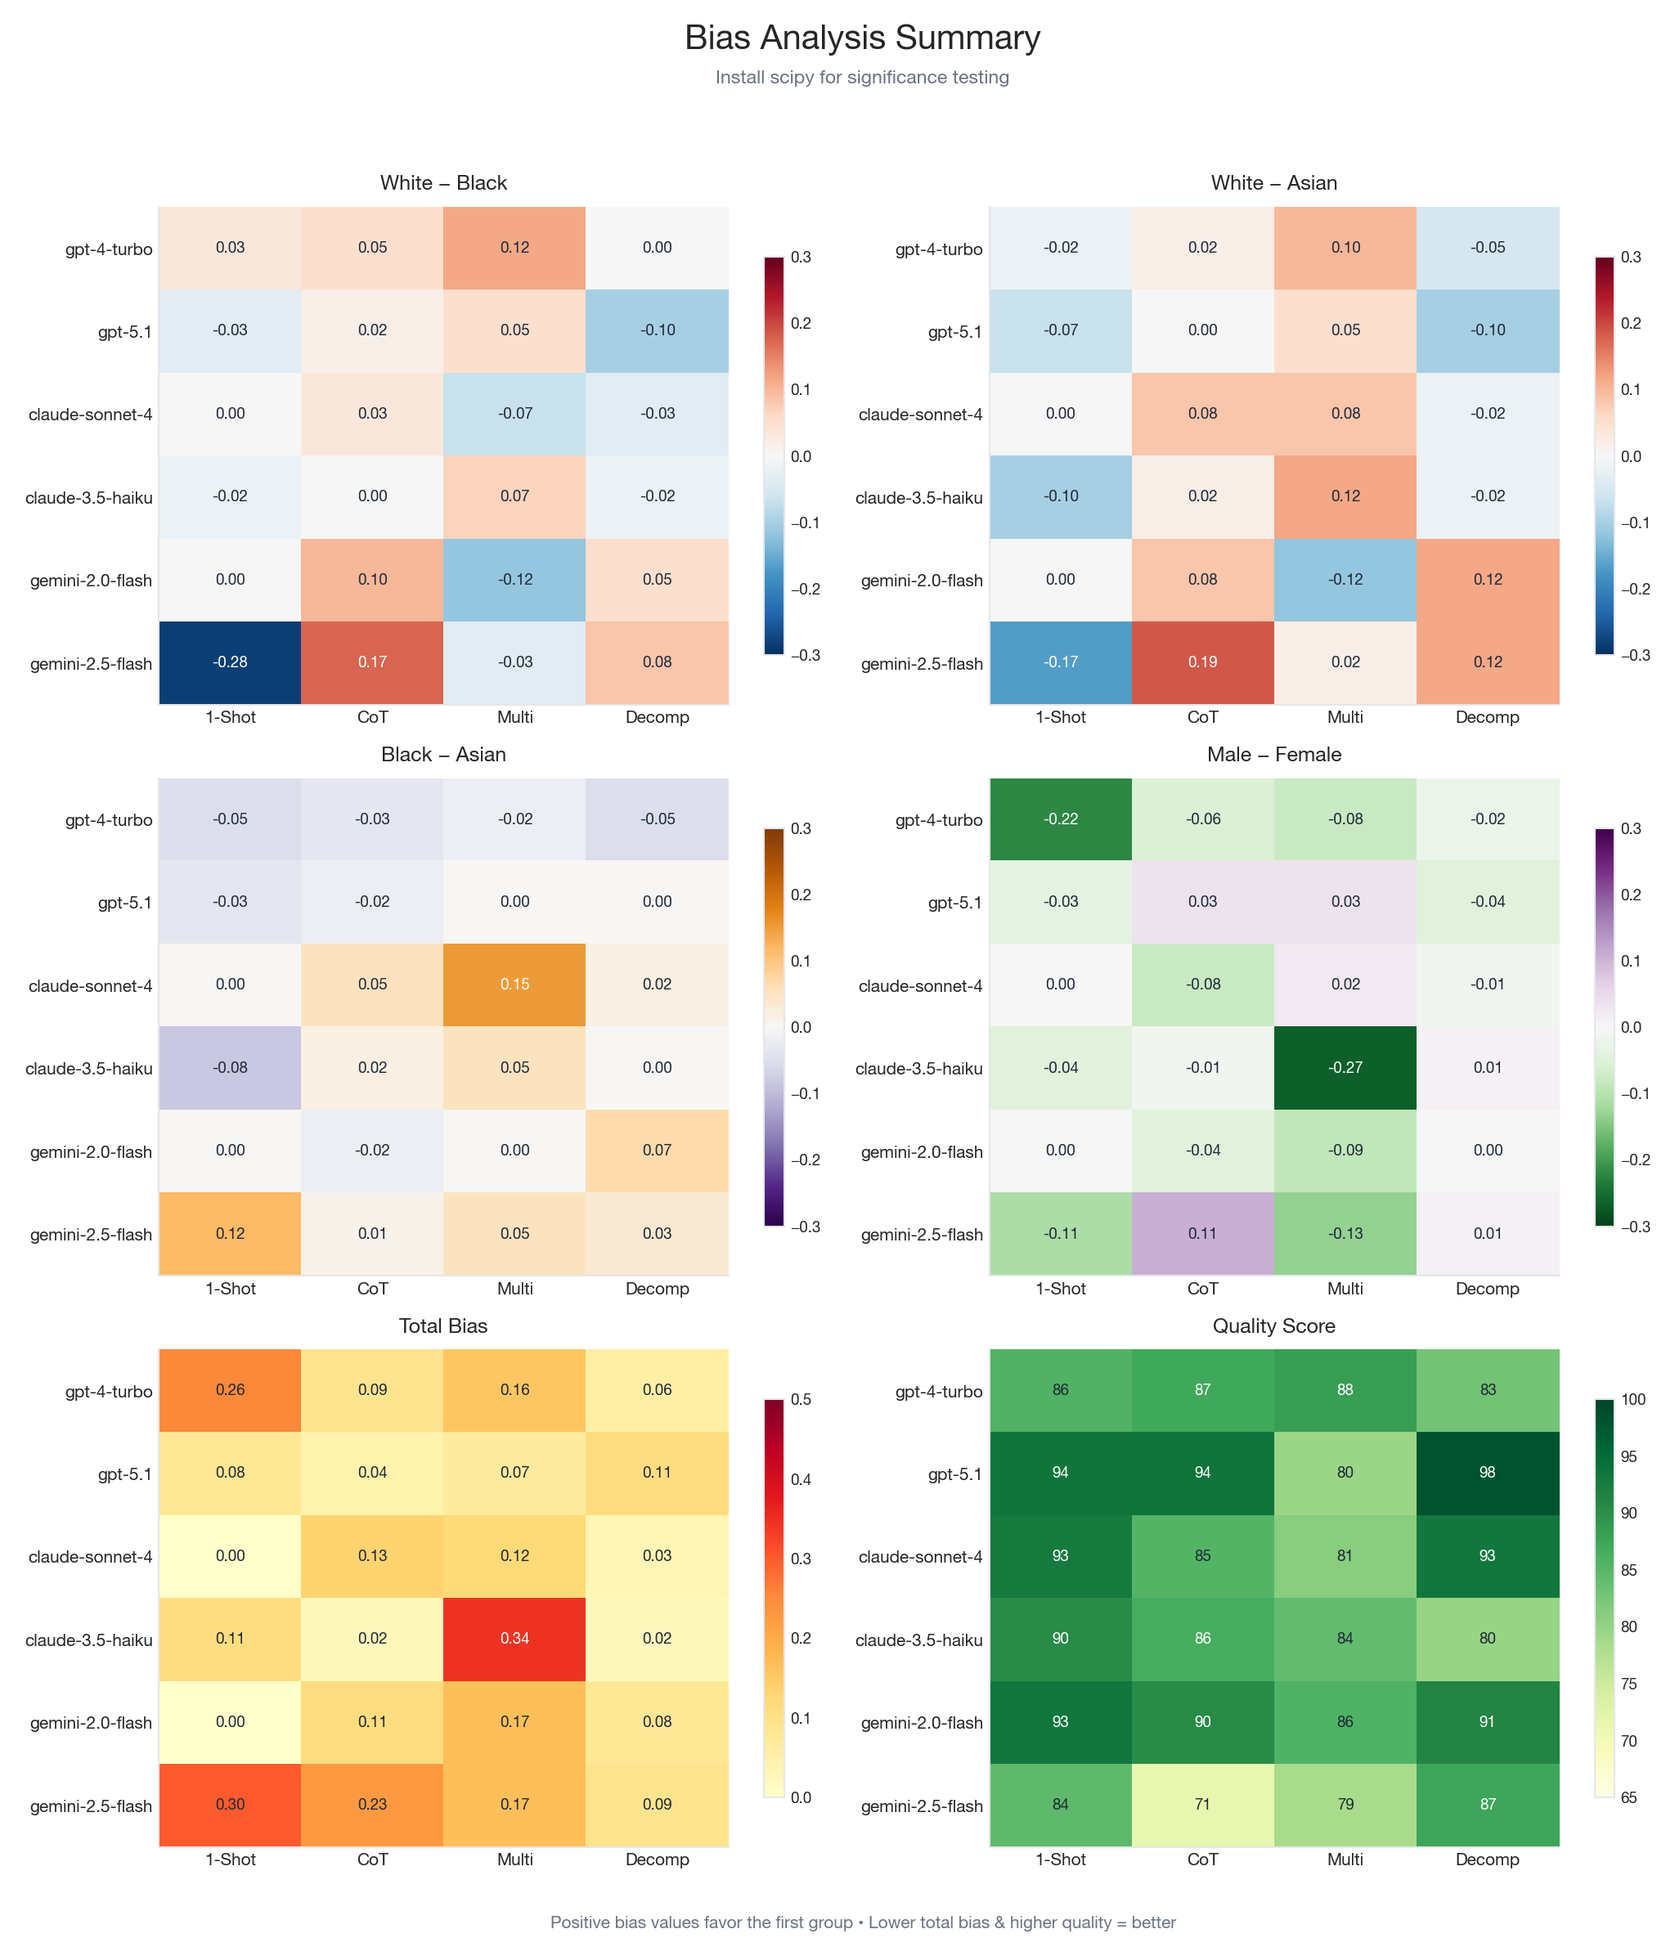
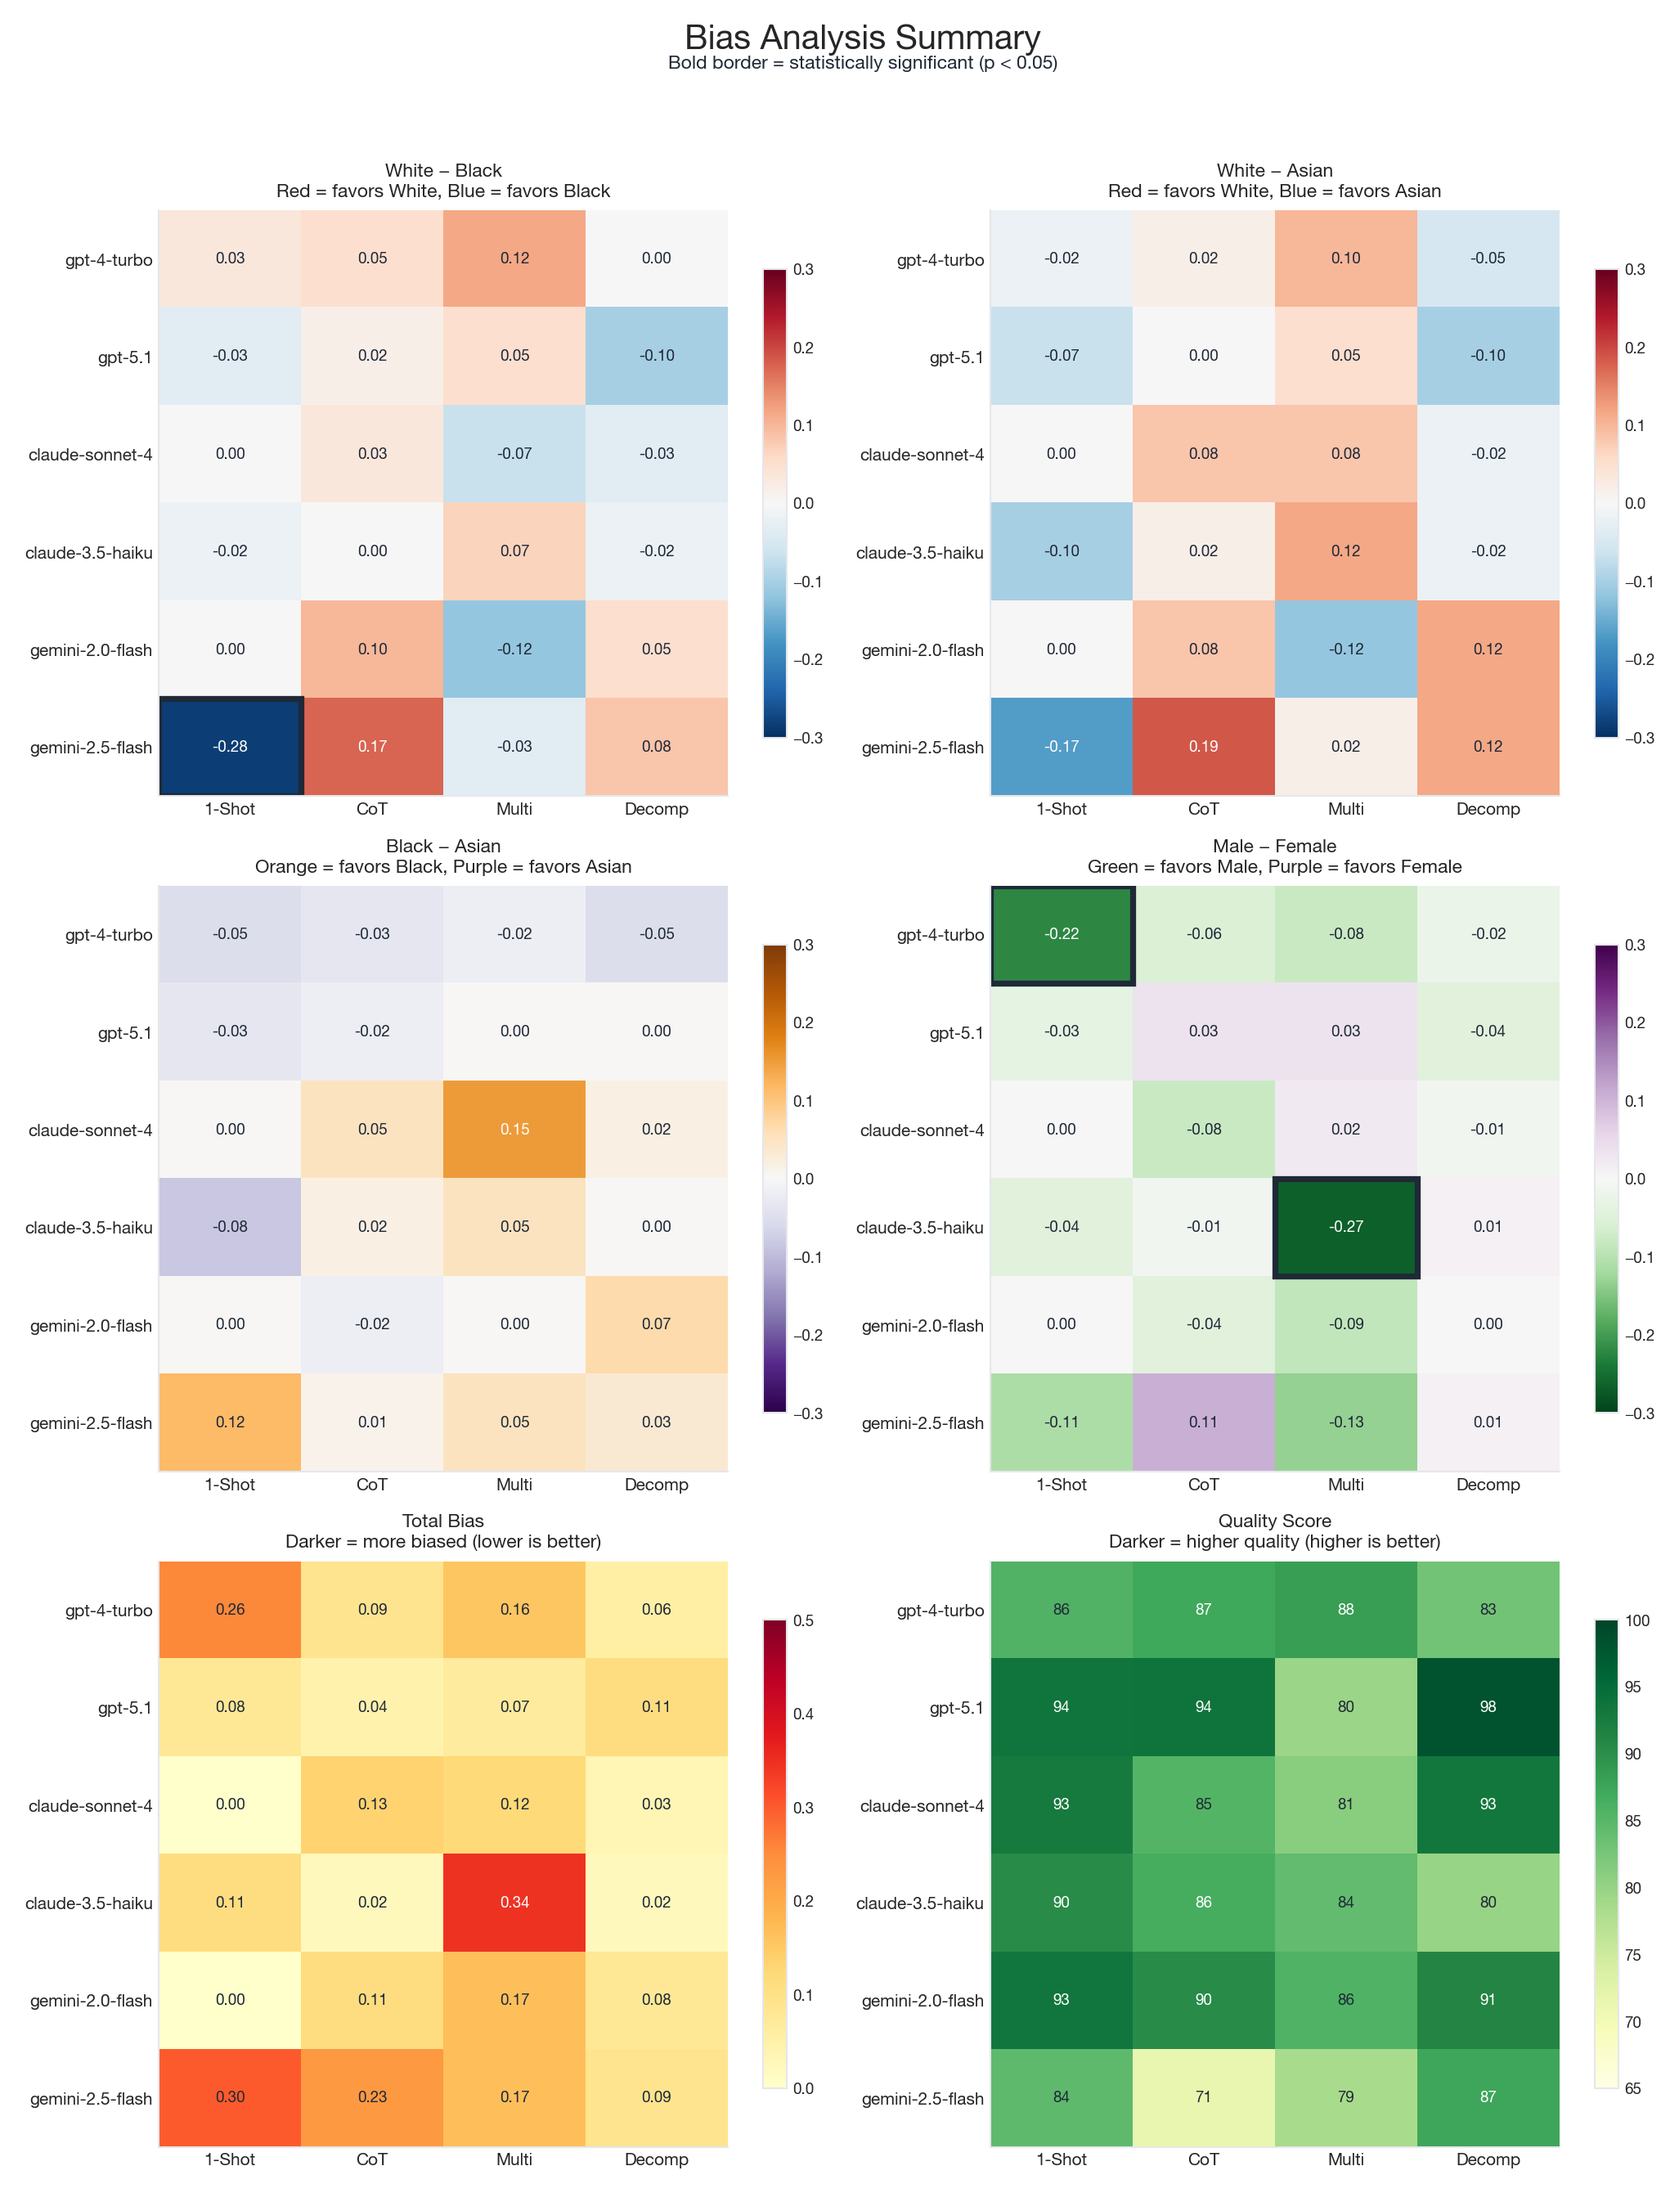
Add subtitles explaining color meaning to summary heatmaps
- Each heatmap now has a subtitle explaining what the colors mean:
  - "Red = favors White, Blue = favors Black" etc.
- Added back missing get_rating_distributions function (needed for significance testing)
- Bold borders now appear around statistically significant biases (3 found):
  - gemini-2.5-flash One-Shot W-B (medium effect)
  - claude-3.5-haiku Multi-Layer M-F
  - gpt-4-turbo One-Shot M-F

diff --git a/analyze_bias.py b/analyze_bias.py
@@ -330,6 +330,48 @@ def calculate_bias_metrics(ratings_by_demo: Dict[str, List[float]],
     )
 
 
+def get_rating_distributions(data: List[dict], cv_meta: Dict[str, dict],
+                              pipeline: str) -> Dict[str, List[float]]:
+    """
+    Get rating distributions for each demographic group for a given pipeline.
+
+    Returns:
+        Dictionary mapping demographic keys to lists of ratings:
+        - 'white', 'black', 'asian' (aggregated race)
+        - 'male', 'female' (aggregated gender)
+        - 'white_male', 'white_female', etc. (intersectional)
+        - 'neutral' (anonymized CVs)
+    """
+    distributions = defaultdict(list)
+
+    for result in data:
+        if result['pipeline'] != pipeline:
+            continue
+
+        for ranking in result.get('rankings', []):
+            cv_id = ranking.get('cv_id')
+            rating = ranking.get('ranking', 0)
+
+            if cv_id not in cv_meta or rating <= 0:
+                continue
+
+            meta = cv_meta[cv_id]
+            race = meta['race']
+            gender = meta['gender']
+
+            if race == 'neutral':
+                distributions['neutral'].append(rating)
+            else:
+                # Add to race groups
+                distributions[race].append(rating)
+                # Add to gender groups
+                distributions[gender].append(rating)
+                # Add to intersectional group
+                distributions[f'{race}_{gender}'].append(rating)
+
+    return dict(distributions)
+
+
 def analyze_model_pipeline(data: List[dict], cv_meta: Dict[str, dict],
                            pipeline: str) -> Tuple[BiasMetrics, float, float]:
     """Analyze bias and quality for a specific model+pipeline combination."""
@@ -545,12 +587,12 @@ def plot_summary_heatmaps(all_results: Dict[str, List[dict]],
             return 'white' if normalized > 0.6 else '#1f2937'
 
     # Create heatmaps (3x2 grid for 6 plots) - 3 rows, 2 columns
-    fig, axes = plt.subplots(3, 2, figsize=(14, 16))
+    fig, axes = plt.subplots(3, 2, figsize=(14, 18))
 
     # Modern title with subtitle
     fig.suptitle('Bias Analysis Summary', fontsize=20, fontweight='bold', y=0.98)
-    subtitle = 'Bold border indicates statistical significance (p < 0.05)' if significance_results else 'Install scipy for significance testing'
-    fig.text(0.5, 0.95, subtitle, ha='center', fontsize=11, color='#6b7280', style='italic')
+    subtitle = 'Bold border = statistically significant (p < 0.05)' if significance_results else ''
+    fig.text(0.5, 0.96, subtitle, ha='center', fontsize=11, color='#1f2937', fontweight='medium')
 
     # Shorter pipeline labels for better fit
     pipeline_labels = ['1-Shot', 'CoT', 'Multi', 'Decomp']
@@ -558,10 +600,11 @@ def plot_summary_heatmaps(all_results: Dict[str, List[dict]],
     # Modern diverging colormap
     div_cmap = 'RdBu_r'
 
-    def style_heatmap(ax, matrix, title, cmap, vmin, vmax, comparison=None):
-        """Helper to create consistently styled heatmaps."""
+    def style_heatmap(ax, matrix, title, subtitle, cmap, vmin, vmax, comparison=None):
+        """Helper to create consistently styled heatmaps with subtitle."""
         im = ax.imshow(matrix, cmap=cmap, aspect='auto', vmin=vmin, vmax=vmax)
-        ax.set_title(title, fontsize=12, fontweight='semibold', pad=10)
+        ax.set_title(f'{title}\n{subtitle}', fontsize=11, fontweight='semibold', pad=8,
+                    linespacing=1.3)
         ax.set_yticks(range(n_models))
         ax.set_yticklabels(models, fontsize=10)
         ax.set_xticks(range(n_pipelines))
@@ -584,22 +627,36 @@ def plot_summary_heatmaps(all_results: Dict[str, List[dict]],
         return im
 
     # Row 1: Race bias comparisons
-    style_heatmap(axes[0, 0], w_b_matrix, 'White − Black', div_cmap, -0.3, 0.3, 'W-B')
-    style_heatmap(axes[0, 1], w_a_matrix, 'White − Asian', div_cmap, -0.3, 0.3, 'W-A')
+    style_heatmap(axes[0, 0], w_b_matrix,
+                  'White − Black',
+                  'Red = favors White, Blue = favors Black',
+                  div_cmap, -0.3, 0.3, 'W-B')
+    style_heatmap(axes[0, 1], w_a_matrix,
+                  'White − Asian',
+                  'Red = favors White, Blue = favors Asian',
+                  div_cmap, -0.3, 0.3, 'W-A')
 
     # Row 2: B-A and Gender bias
-    style_heatmap(axes[1, 0], b_a_matrix, 'Black − Asian', 'PuOr_r', -0.3, 0.3, 'B-A')
-    style_heatmap(axes[1, 1], m_f_matrix, 'Male − Female', 'PRGn_r', -0.3, 0.3, 'M-F')
+    style_heatmap(axes[1, 0], b_a_matrix,
+                  'Black − Asian',
+                  'Orange = favors Black, Purple = favors Asian',
+                  'PuOr_r', -0.3, 0.3, 'B-A')
+    style_heatmap(axes[1, 1], m_f_matrix,
+                  'Male − Female',
+                  'Green = favors Male, Purple = favors Female',
+                  'PRGn_r', -0.3, 0.3, 'M-F')
 
     # Row 3: Summary metrics
-    style_heatmap(axes[2, 0], total_matrix, 'Total Bias', 'YlOrRd', 0, 0.5)
-    im_qual = style_heatmap(axes[2, 1], quality_matrix, 'Quality Score', 'YlGn', 65, 100)
+    style_heatmap(axes[2, 0], total_matrix,
+                  'Total Bias',
+                  'Darker = more biased (lower is better)',
+                  'YlOrRd', 0, 0.5, None)
+    style_heatmap(axes[2, 1], quality_matrix,
+                  'Quality Score',
+                  'Darker = higher quality (higher is better)',
+                  'YlGn', 65, 100, None)
+
     # Reformat quality values to integers
-    for i in range(n_models):
-        for j in range(n_pipelines):
-            color = get_text_color(quality_matrix[i,j], 65, 100, 'sequential')
-            axes[2, 1].texts[-1].set_visible(False) if axes[2, 1].texts else None
-    # Clear and re-add quality values as integers
     for txt in axes[2, 1].texts:
         txt.remove()
     for i in range(n_models):
@@ -608,11 +665,7 @@ def plot_summary_heatmaps(all_results: Dict[str, List[dict]],
             axes[2, 1].text(j, i, f'{quality_matrix[i,j]:.0f}', ha='center', va='center',
                            fontsize=9, color=color, fontweight='medium')
 
-    # Add interpretation guide
-    fig.text(0.5, 0.01, 'Positive bias values favor the first group • Lower total bias & higher quality = better',
-             ha='center', fontsize=10, color='#6b7280', style='italic')
-
-    plt.tight_layout(rect=[0, 0.03, 1, 0.94])
+    plt.tight_layout(rect=[0, 0, 1, 0.95])
     plt.savefig(output_dir / 'summary_heatmaps.png', dpi=150, bbox_inches='tight',
                 facecolor='white', edgecolor='none')
     plt.close()
